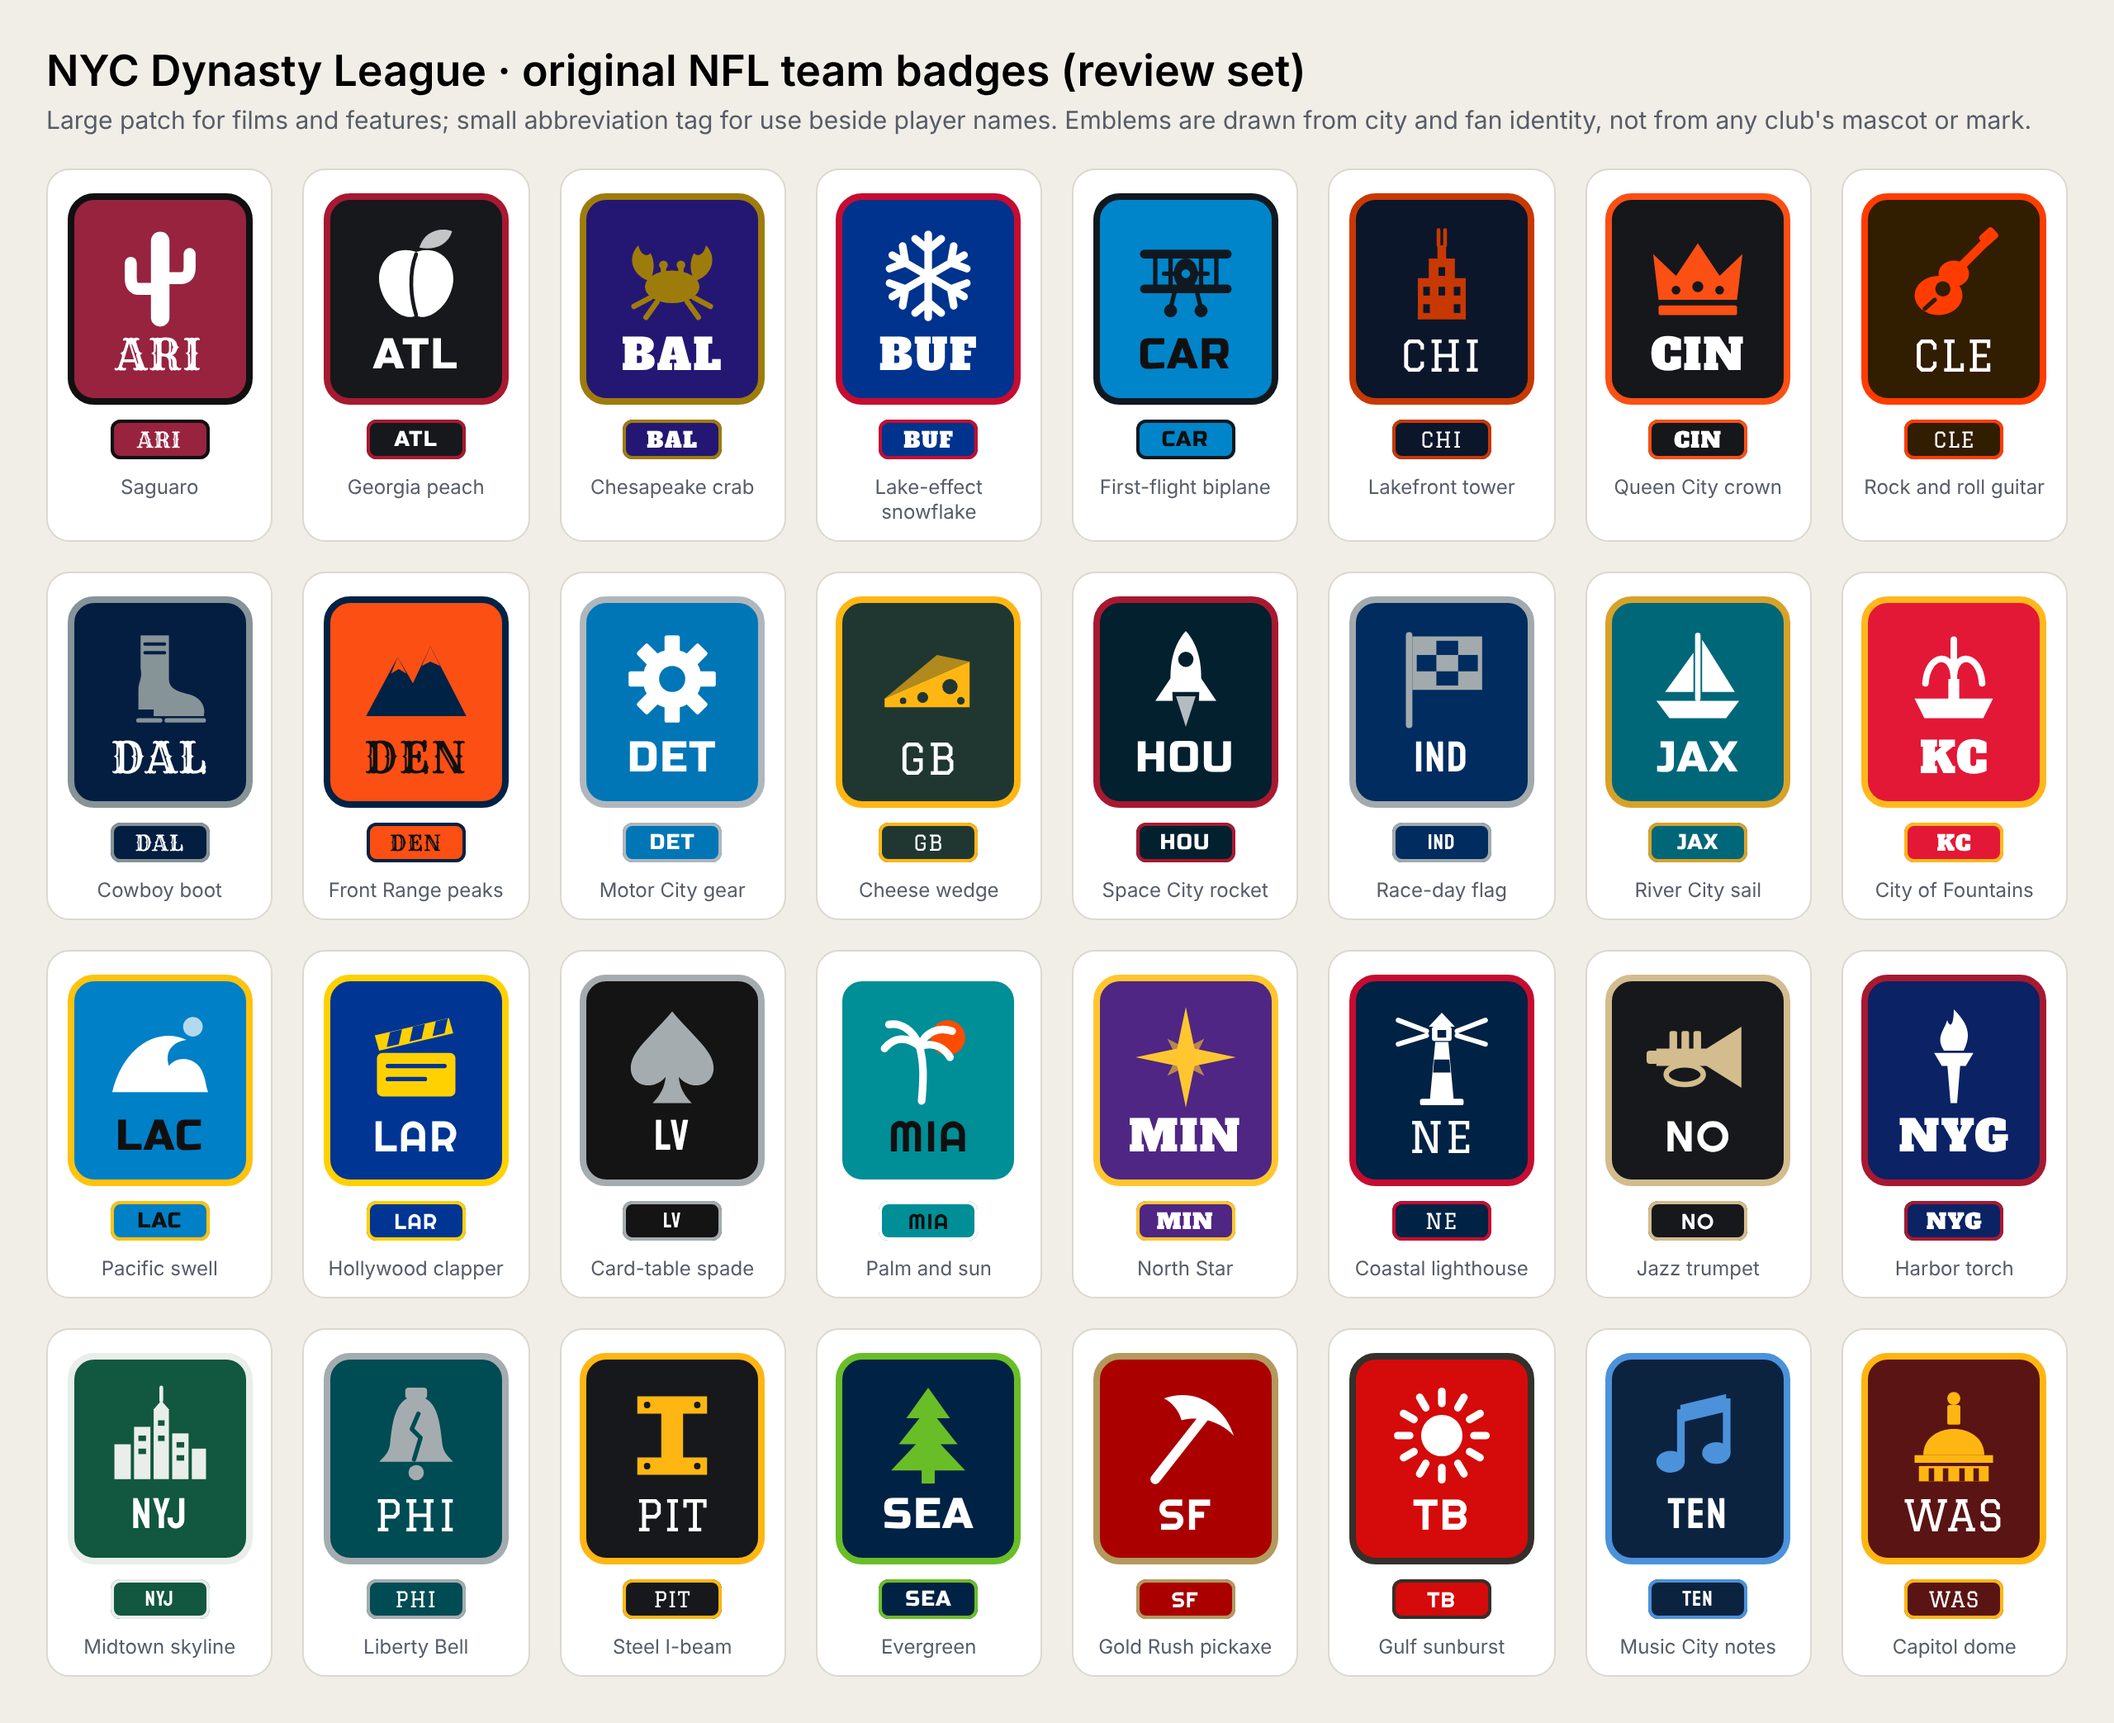
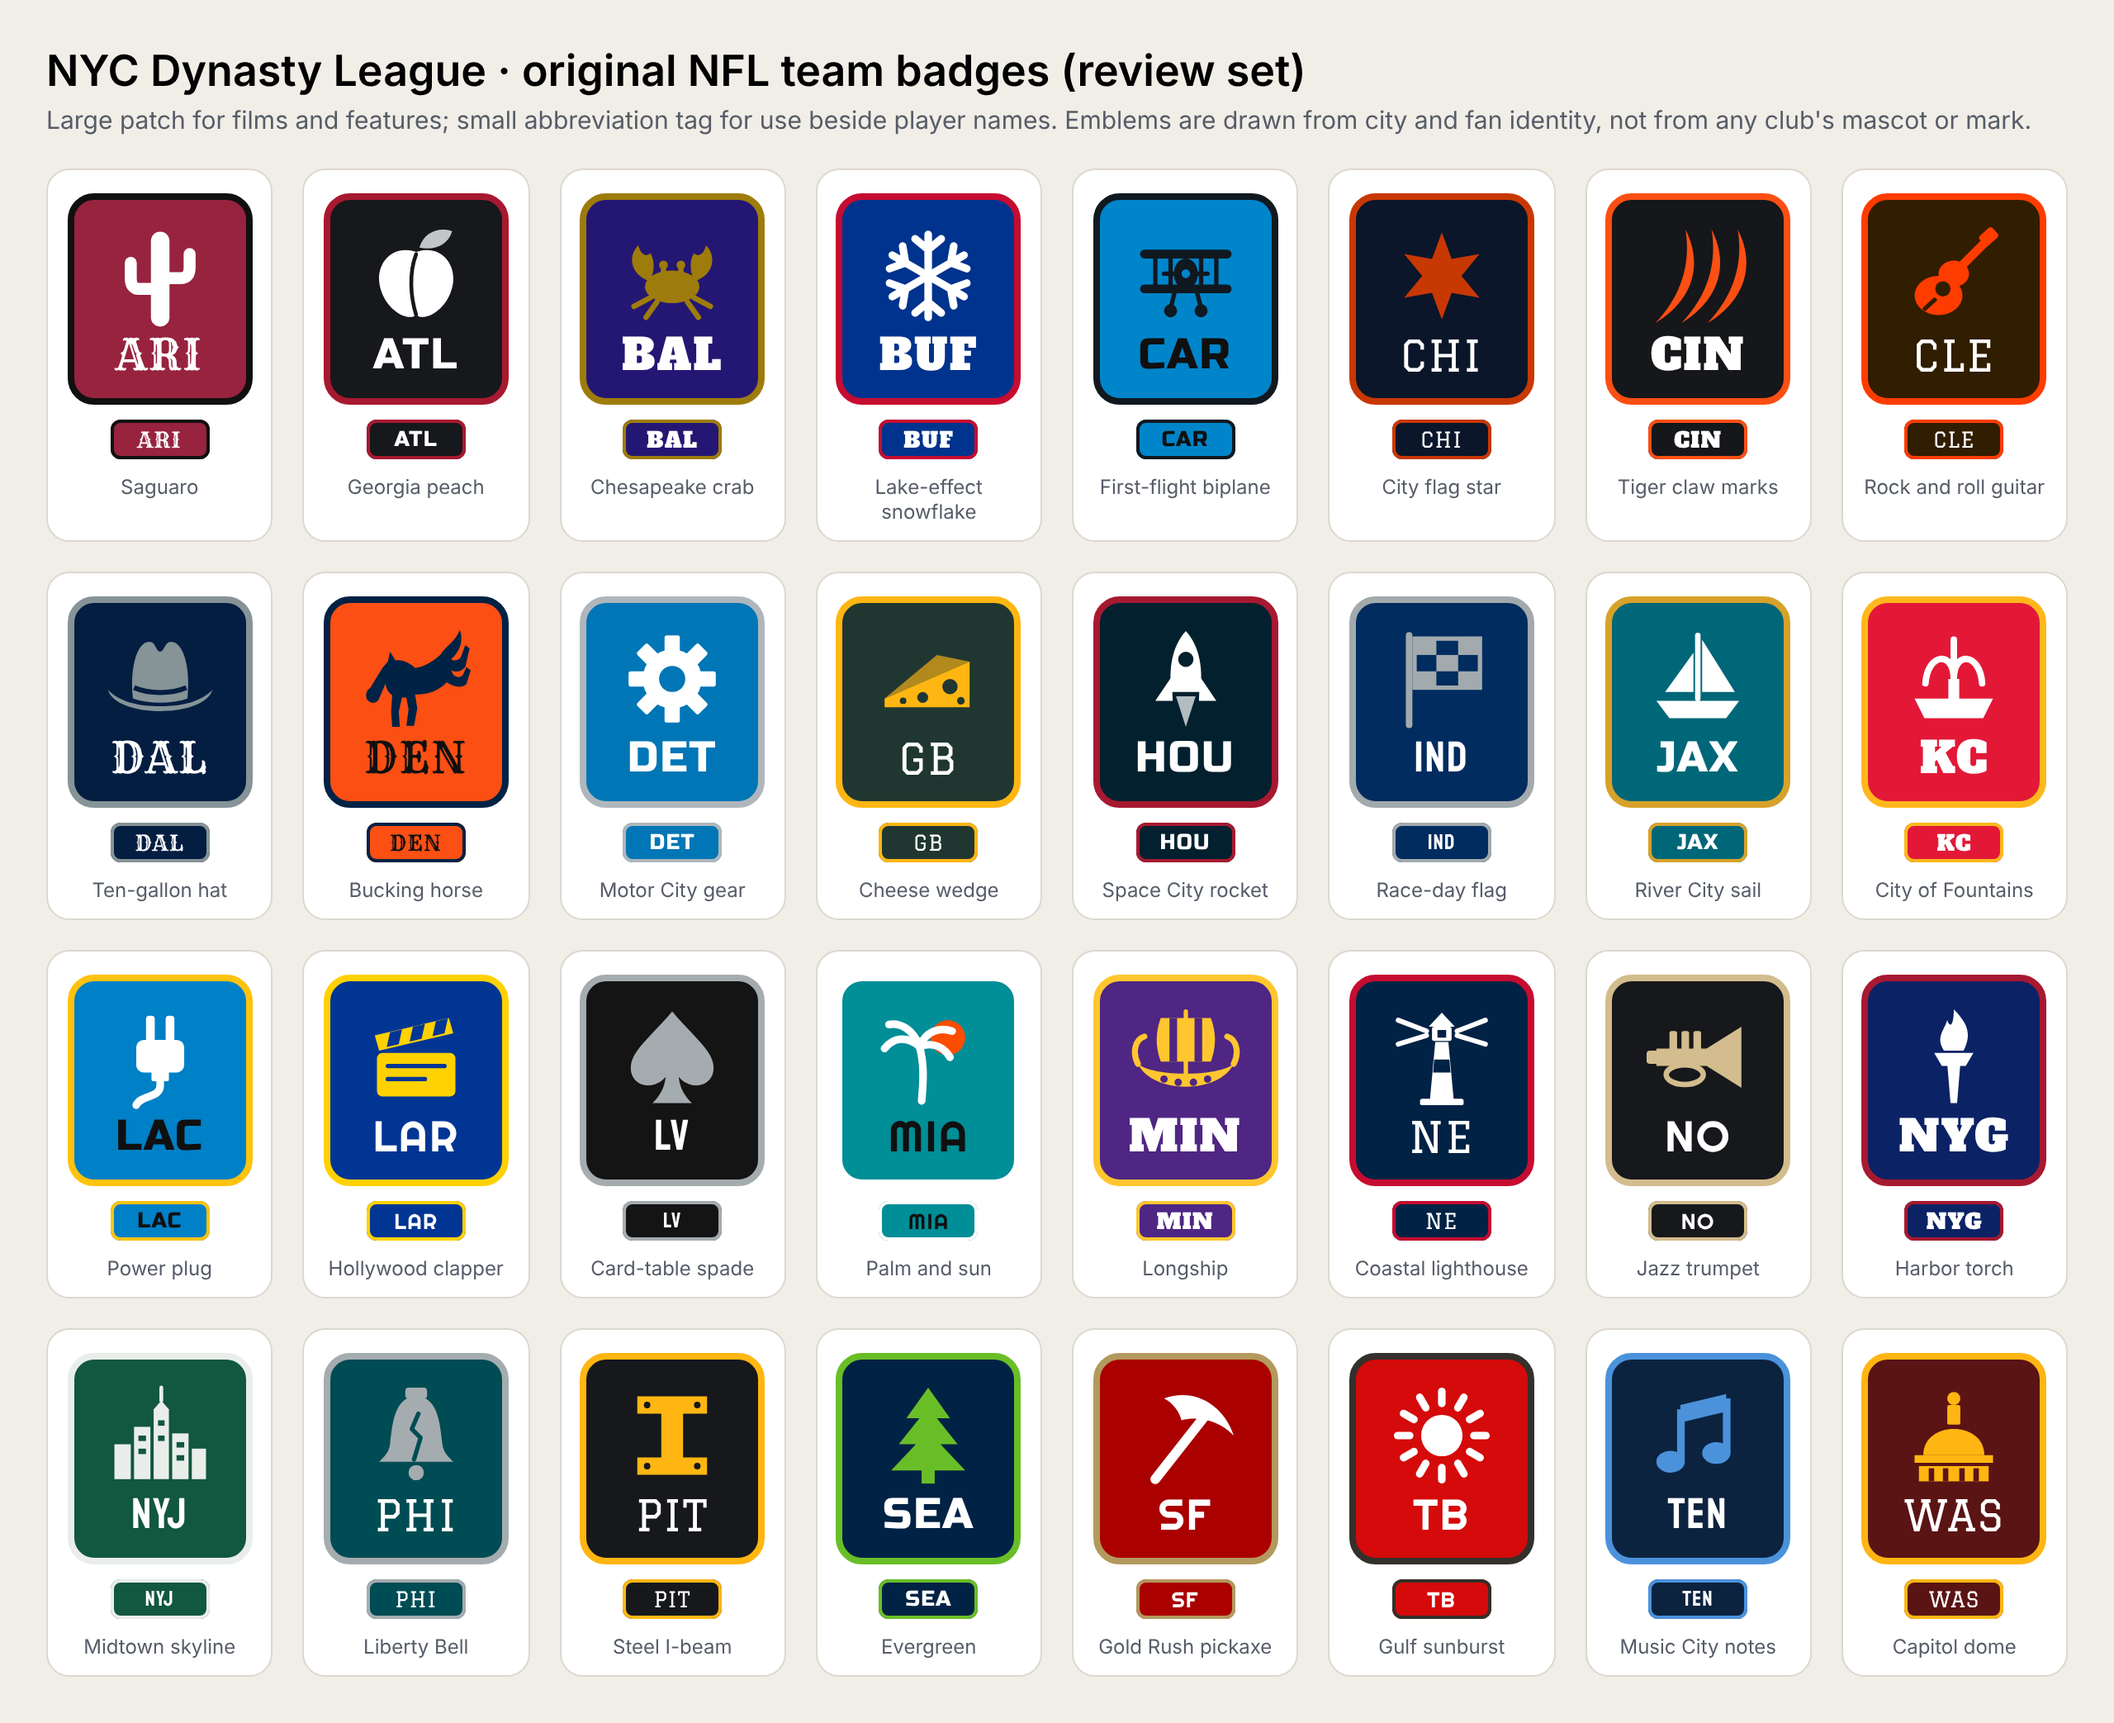
Badge review set: revised Chicago, Cincinnati, Dallas, Denver, Chargers and Minnesota emblems
Claude-Session: https://claude.ai/code/session_016azXhCjLspkozJU7MjREg2

diff --git a/src/nfl-badges/build_review.py b/src/nfl-badges/build_review.py
@@ -12,22 +12,22 @@ E = {
  'BAL': ('Chesapeake crab', 'alfa', f'<g fill="{C}"><ellipse cx="50" cy="60" rx="25" ry="15"/><path d="M27 54C12 48 9 32 19 22C21 31 27 33 30 29C35 38 33 47 30 54Z"/><path d="M73 54C88 48 91 32 81 22C79 31 73 33 70 29C65 38 67 47 70 54Z"/><circle cx="42" cy="40" r="4"/><circle cx="58" cy="40" r="4"/></g><g stroke="{C}" stroke-width="5" stroke-linecap="round" fill="none"><path d="M42 42V48M58 42V48M30 70L15 78M36 74L26 88M70 70L85 78M64 74L74 88"/></g>'),
  'BUF': ('Lake-effect snowflake', 'alfa', f'<g stroke="{C}" stroke-width="7" stroke-linecap="round" fill="none">' + ''.join(f'<path d="M50 12V88M50 26L38 16M50 26L62 16M50 74L38 84M50 74L62 84" transform="rotate({a} 50 50)"/>' for a in (0,60,120)) + '</g>'),
  'CAR': ('First-flight biplane', 'russo', f'<g fill="{C}"><rect x="8" y="26" width="84" height="8" rx="4"/><rect x="8" y="58" width="84" height="8" rx="4"/><ellipse cx="50" cy="48" rx="11" ry="14"/><circle cx="36" cy="82" r="6"/><circle cx="64" cy="82" r="6"/></g><g stroke="{C}" stroke-width="4" stroke-linecap="round"><path d="M22 34V58M78 34V58M36 34V58M64 34V58M40 64L36 80M60 64L64 80M30 48H70"/></g><circle cx="50" cy="48" r="4" fill="{P}"/>'),
- 'CHI': ('Lakefront tower', 'graduate', f'<path fill="{C}" d="M28 90V52H38V34H46V22H54V34H62V52H72V90Z"/><path d="M47 22V8M53 22V8" stroke="{C}" stroke-width="3.5" stroke-linecap="round"/><g fill="{P}"><rect x="33" y="60" width="6" height="8"/><rect x="47" y="60" width="6" height="8"/><rect x="61" y="60" width="6" height="8"/><rect x="47" y="42" width="6" height="8"/><rect x="33" y="76" width="6" height="8"/><rect x="61" y="76" width="6" height="8"/></g>'),
- 'CIN': ('Queen City crown', 'alfa', f'<path fill="{C}" d="M14 72L9 30L30 50L50 20L70 50L91 30L86 72Z"/><rect x="14" y="77" width="72" height="9" rx="2" fill="{C}"/><g fill="{P}"><circle cx="30" cy="63" r="4"/><circle cx="50" cy="60" r="5"/><circle cx="70" cy="63" r="4"/></g>'),
+ 'CHI': ('City flag star', 'graduate', f'<polygon fill="{C}" points="50.0,10.0 59.0,34.4 84.6,30.0 68.0,50.0 84.6,70.0 59.0,65.6 50.0,90.0 41.0,65.6 15.4,70.0 32.0,50.0 15.4,30.0 41.0,34.4"/>'),
+ 'CIN': ('Tiger claw marks', 'alfa', f'<g fill="{C}"><path transform="translate(-2 0) scale(1) rotate(14 30 50)" d="M30 6C42 34 42 64 24 96C50 70 56 36 30 6Z"/><path transform="translate(22 0) scale(1) rotate(14 30 50)" d="M30 6C42 34 42 64 24 96C50 70 56 36 30 6Z"/><path transform="translate(46 0) scale(1) rotate(14 30 50)" d="M30 6C42 34 42 64 24 96C50 70 56 36 30 6Z"/></g>'),
  'CLE': ('Rock and roll guitar', 'graduate', f'<g fill="{C}"><ellipse cx="36" cy="68" rx="22" ry="18"/><ellipse cx="50" cy="48" rx="14" ry="12"/><rect x="74" y="8" width="16" height="12" rx="3" transform="rotate(-42 82 14)"/></g><path d="M56 42L84 14" stroke="{C}" stroke-width="8" stroke-linecap="round"/><circle cx="40" cy="62" r="7" fill="{P}"/><rect x="20" y="74" width="16" height="4" rx="2" fill="{P}" transform="rotate(-42 28 76)"/>'),
- 'DAL': ('Cowboy boot', 'rye', f'<path fill="{C}" d="M32 10H58V50C58 58 64 61 76 64C88 67 92 76 90 84H44V78H30V60C30 52 34 50 32 40Z"/><path d="M30 88H50M56 88H90" stroke="{C}" stroke-width="4" stroke-linecap="round"/><path d="M36 18H54M36 26H54" stroke="{P}" stroke-width="3" stroke-linecap="round"/>'),
- 'DEN': ('Front Range peaks', 'rye', f'<path fill="{C}" d="M4 84L33 30L47 54L63 20L96 84Z"/><path fill="{P}" d="M33 30L41 45L34 41L27 45ZM63 20L72 38L63 34L55 38Z"/>'),
+ 'DAL': ('Ten-gallon hat', 'rye', f'<g fill="{C}"><path d="M2 60C10 86 90 86 98 60C86 72 68 75 50 75C32 75 14 72 2 60Z"/><path d="M25 68C22 42 28 16 40 16C46 16 46 25 50 25C54 25 54 16 60 16C72 16 78 42 75 68C60 73 40 73 25 68Z"/></g><path d="M26 58C40 64 60 64 74 58" stroke="{P}" stroke-width="4.5" fill="none"/>'),
+ 'DEN': ('Bucking horse', 'rye', f'<path fill="{C}" d="M24 34L26 25L31 33C38 32 45 36 49 40C57 39 65 34 72 28C78 19 86 16 90 5C94 16 89 26 82 32C85 34 89 33 91 30L95 19L99 22L95 39C91 44 86 44 82 42L84 46C87 49 91 49 93 46L96 39L100 42L96 55C91 59 84 57 78 53C71 61 59 65 49 64L51 77L48 93H41L43 78L41 67L37 67L34 80L35 94H28L27 80L28 65C24 62 22 58 22 54L16 68C14 73 8 73 5 69C3 65 4 61 8 58L19 40Z"/>'),
  'DET': ('Motor City gear', 'russo', f'<g fill="{C}"><circle cx="50" cy="50" r="27"/>{rays(8,43,10,14,18)}</g><circle cx="50" cy="50" r="12" fill="{P}"/>'),
  'GB':  ('Cheese wedge', 'graduate', f'<path fill="{C}" d="M10 68L88 34V76H10Z"/><path fill="{C}" opacity=".65" d="M10 68L88 34L58 28Z"/><g fill="{P}"><circle cx="70" cy="57" r="7"/><circle cx="45" cy="67" r="5"/><circle cx="80" cy="70" r="3.5"/><circle cx="27" cy="70" r="3"/></g>'),
  'HOU': ('Space City rocket', 'russo', f'<path fill="{C}" d="M50 6C63 20 66 42 63 62H37C34 42 37 20 50 6Z"/><path fill="{C}" d="M37 48L22 70H38ZM63 48L78 70H62Z"/><path fill="{C}" opacity=".7" d="M41 66H59L50 94Z"/><circle cx="50" cy="32" r="7" fill="{P}"/>'),
  'IND': ('Race-day flag', 'staat', f'<path d="M20 10V92" stroke="{C}" stroke-width="6" stroke-linecap="round"/><rect x="25" y="13" width="60" height="45" fill="none" stroke="{C}" stroke-width="4"/><g fill="{C}"><rect x="25" y="13" width="20" height="15"/><rect x="65" y="13" width="20" height="15"/><rect x="45" y="28" width="20" height="15"/><rect x="25" y="43" width="20" height="15"/><rect x="65" y="43" width="20" height="15"/></g>'),
  'JAX': ('River City sail', 'russo', f'<g fill="{C}"><path d="M12 70H88L76 86H24Z"/><path d="M54 14L84 62H54Z"/><path d="M46 26L20 62H46Z"/></g><path d="M50 10V68" stroke="{C}" stroke-width="5" stroke-linecap="round"/>'),
  'KC':  ('City of Fountains', 'alfa', f'<g fill="{C}"><path d="M14 68H86L77 86H23Z"/><rect x="45" y="50" width="10" height="20"/></g><g fill="none" stroke="{C}" stroke-width="6" stroke-linecap="round"><path d="M50 50C50 24 26 26 24 54"/><path d="M50 50C50 24 74 26 76 54"/><path d="M50 46V14"/></g>'),
- 'LAC': ('Pacific swell', 'russo', f'<path fill="{C}" d="M6 82C16 40 48 22 74 34C60 36 54 46 58 58C66 48 82 50 88 62C92 70 92 78 94 82Z"/><circle cx="80" cy="22" r="9" fill="{C}" opacity=".7"/>'),
+ 'LAC': ('Power plug', 'russo', f'<g fill="{C}"><rect x="28" y="34" width="44" height="30" rx="7"/><rect x="37" y="12" width="8" height="24" rx="3"/><rect x="55" y="12" width="8" height="24" rx="3"/><rect x="42" y="62" width="16" height="10" rx="2"/></g><path d="M50 70V76C50 88 32 84 28 94" stroke="{C}" stroke-width="7" fill="none" stroke-linecap="round"/>'),
  'LAR': ('Hollywood clapper', 'righteous', f'<rect x="14" y="46" width="72" height="40" rx="5" fill="{C}"/><path fill="{C}" d="M12 30L80 14L84 28L16 44Z"/><g fill="{P}"><path d="M26 27L37 24.4L34 38L23 40.6Z"/><path d="M47 22L58 19.4L55 33L44 35.6Z"/><path d="M68 17L79 14.4L76 28L65 30.6Z"/><rect x="22" y="56" width="56" height="4" rx="2"/><rect x="22" y="68" width="38" height="4" rx="2"/></g>'),
  'LV':  ('Card-table spade', 'staat', f'<path fill="{C}" d="M50 8C70 32 88 44 88 60C88 76 68 82 56 68C57 78 61 85 68 92H32C39 85 43 78 44 68C32 82 12 76 12 60C12 44 30 32 50 8Z"/>'),
  'MIA': ('Palm and sun', 'righteous', f'<circle cx="68" cy="32" r="16" fill="var(--s)"/><g stroke="{C}" stroke-width="7" stroke-linecap="round" fill="none"><path d="M44 90C46 68 46 54 42 40"/><path d="M42 40C30 30 18 32 10 42"/><path d="M42 40C36 24 24 18 14 20"/><path d="M42 40C48 26 60 22 72 26"/><path d="M42 40C54 36 64 40 70 50"/></g>'),
- 'MIN': ('North Star', 'alfa', f'<path fill="{C}" opacity=".6" d="M50 26L56 44L74 50L56 56L50 74L44 56L26 50L44 44Z" transform="rotate(45 50 50)"/><path fill="{C}" d="M50 4L58 42L96 50L58 58L50 96L42 58L4 50L42 42Z"/>'),
+ 'MIN': ('Longship', 'alfa', f'<g fill="{C}"><path d="M6 56C20 84 80 84 94 56C80 68 20 68 6 56Z"/><path d="M27 14H73C78 28 78 40 73 54H27C22 40 22 28 27 14Z"/></g><g fill="none" stroke="{C}" stroke-linecap="round"><path d="M94 56C99 46 97 34 88 31M6 56C1 46 3 34 12 31" stroke-width="5.5"/><path d="M50 8V64" stroke-width="4"/></g><g fill="{P}"><rect x="35" y="14" width="7" height="40"/><rect x="58" y="14" width="7" height="40"/><circle cx="30" cy="70" r="3.4"/><circle cx="43" cy="73" r="3.4"/><circle cx="57" cy="73" r="3.4"/><circle cx="70" cy="70" r="3.4"/></g>'),
  'NE':  ('Coastal lighthouse', 'graduate', f'<g fill="{C}"><path d="M39 90L44 36H56L61 90Z"/><rect x="41" y="22" width="18" height="13" rx="2"/><path d="M38 22L50 9L62 22Z"/><rect x="30" y="88" width="40" height="6" rx="2"/></g><g stroke="{C}" stroke-width="4.5" stroke-linecap="round"><path d="M64 26L90 16M64 30L90 38M36 26L10 16M36 30L10 38"/></g><path fill="{P}" d="M43 52H57L58 64H42Z"/><rect x="46" y="25" width="8" height="7" fill="{P}"/>'),
  'NO':  ('Jazz trumpet', 'righteous', f'<g fill="{C}"><path d="M12 42H58L90 22V78L58 58H12Z"/><rect x="3" y="44" width="11" height="12" rx="3"/><rect x="24" y="26" width="7" height="18" rx="2"/><rect x="35" y="26" width="7" height="18" rx="2"/><rect x="46" y="26" width="7" height="18" rx="2"/></g><ellipse cx="38" cy="66" rx="17" ry="9" fill="none" stroke="{C}" stroke-width="5"/>'),
  'NYG': ('Harbor torch', 'alfa', f'<g fill="{C}"><path d="M44 56H56L53 92H47Z"/><path d="M32 46H68L61 58H39Z"/><path d="M50 6C64 20 66 30 59 44H41C33 32 41 26 44 16C46 23 50 22 50 6Z"/></g>'),
